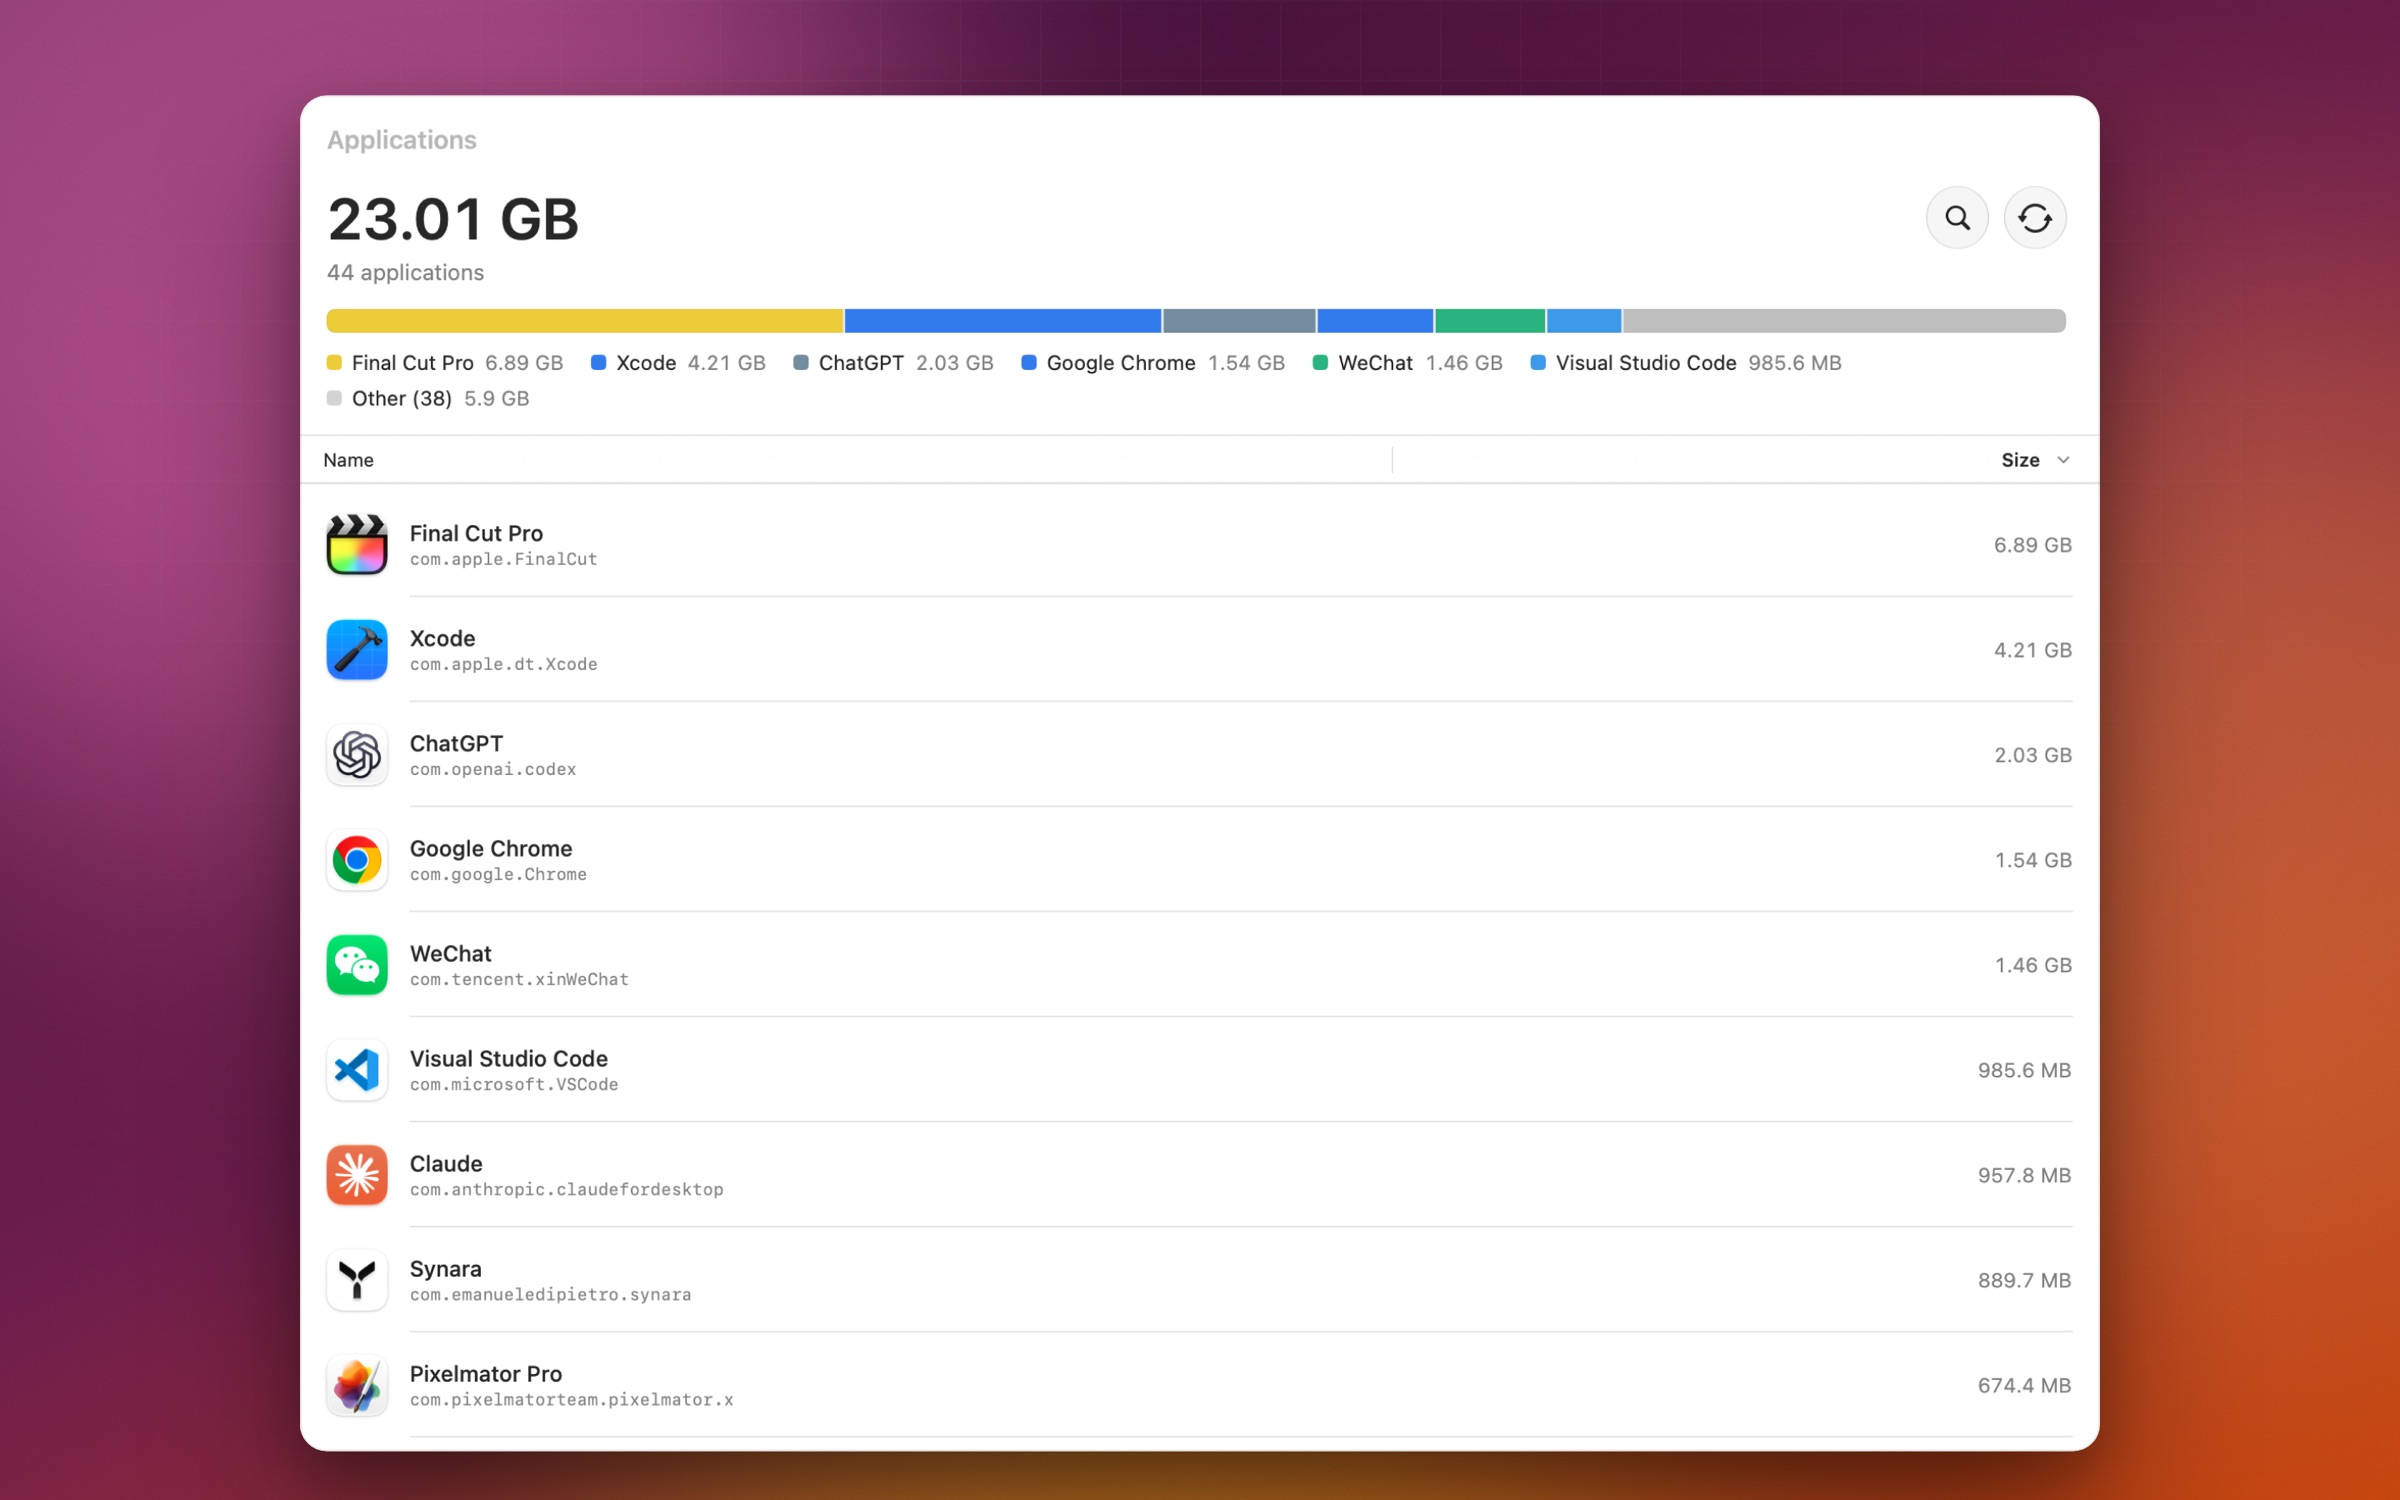
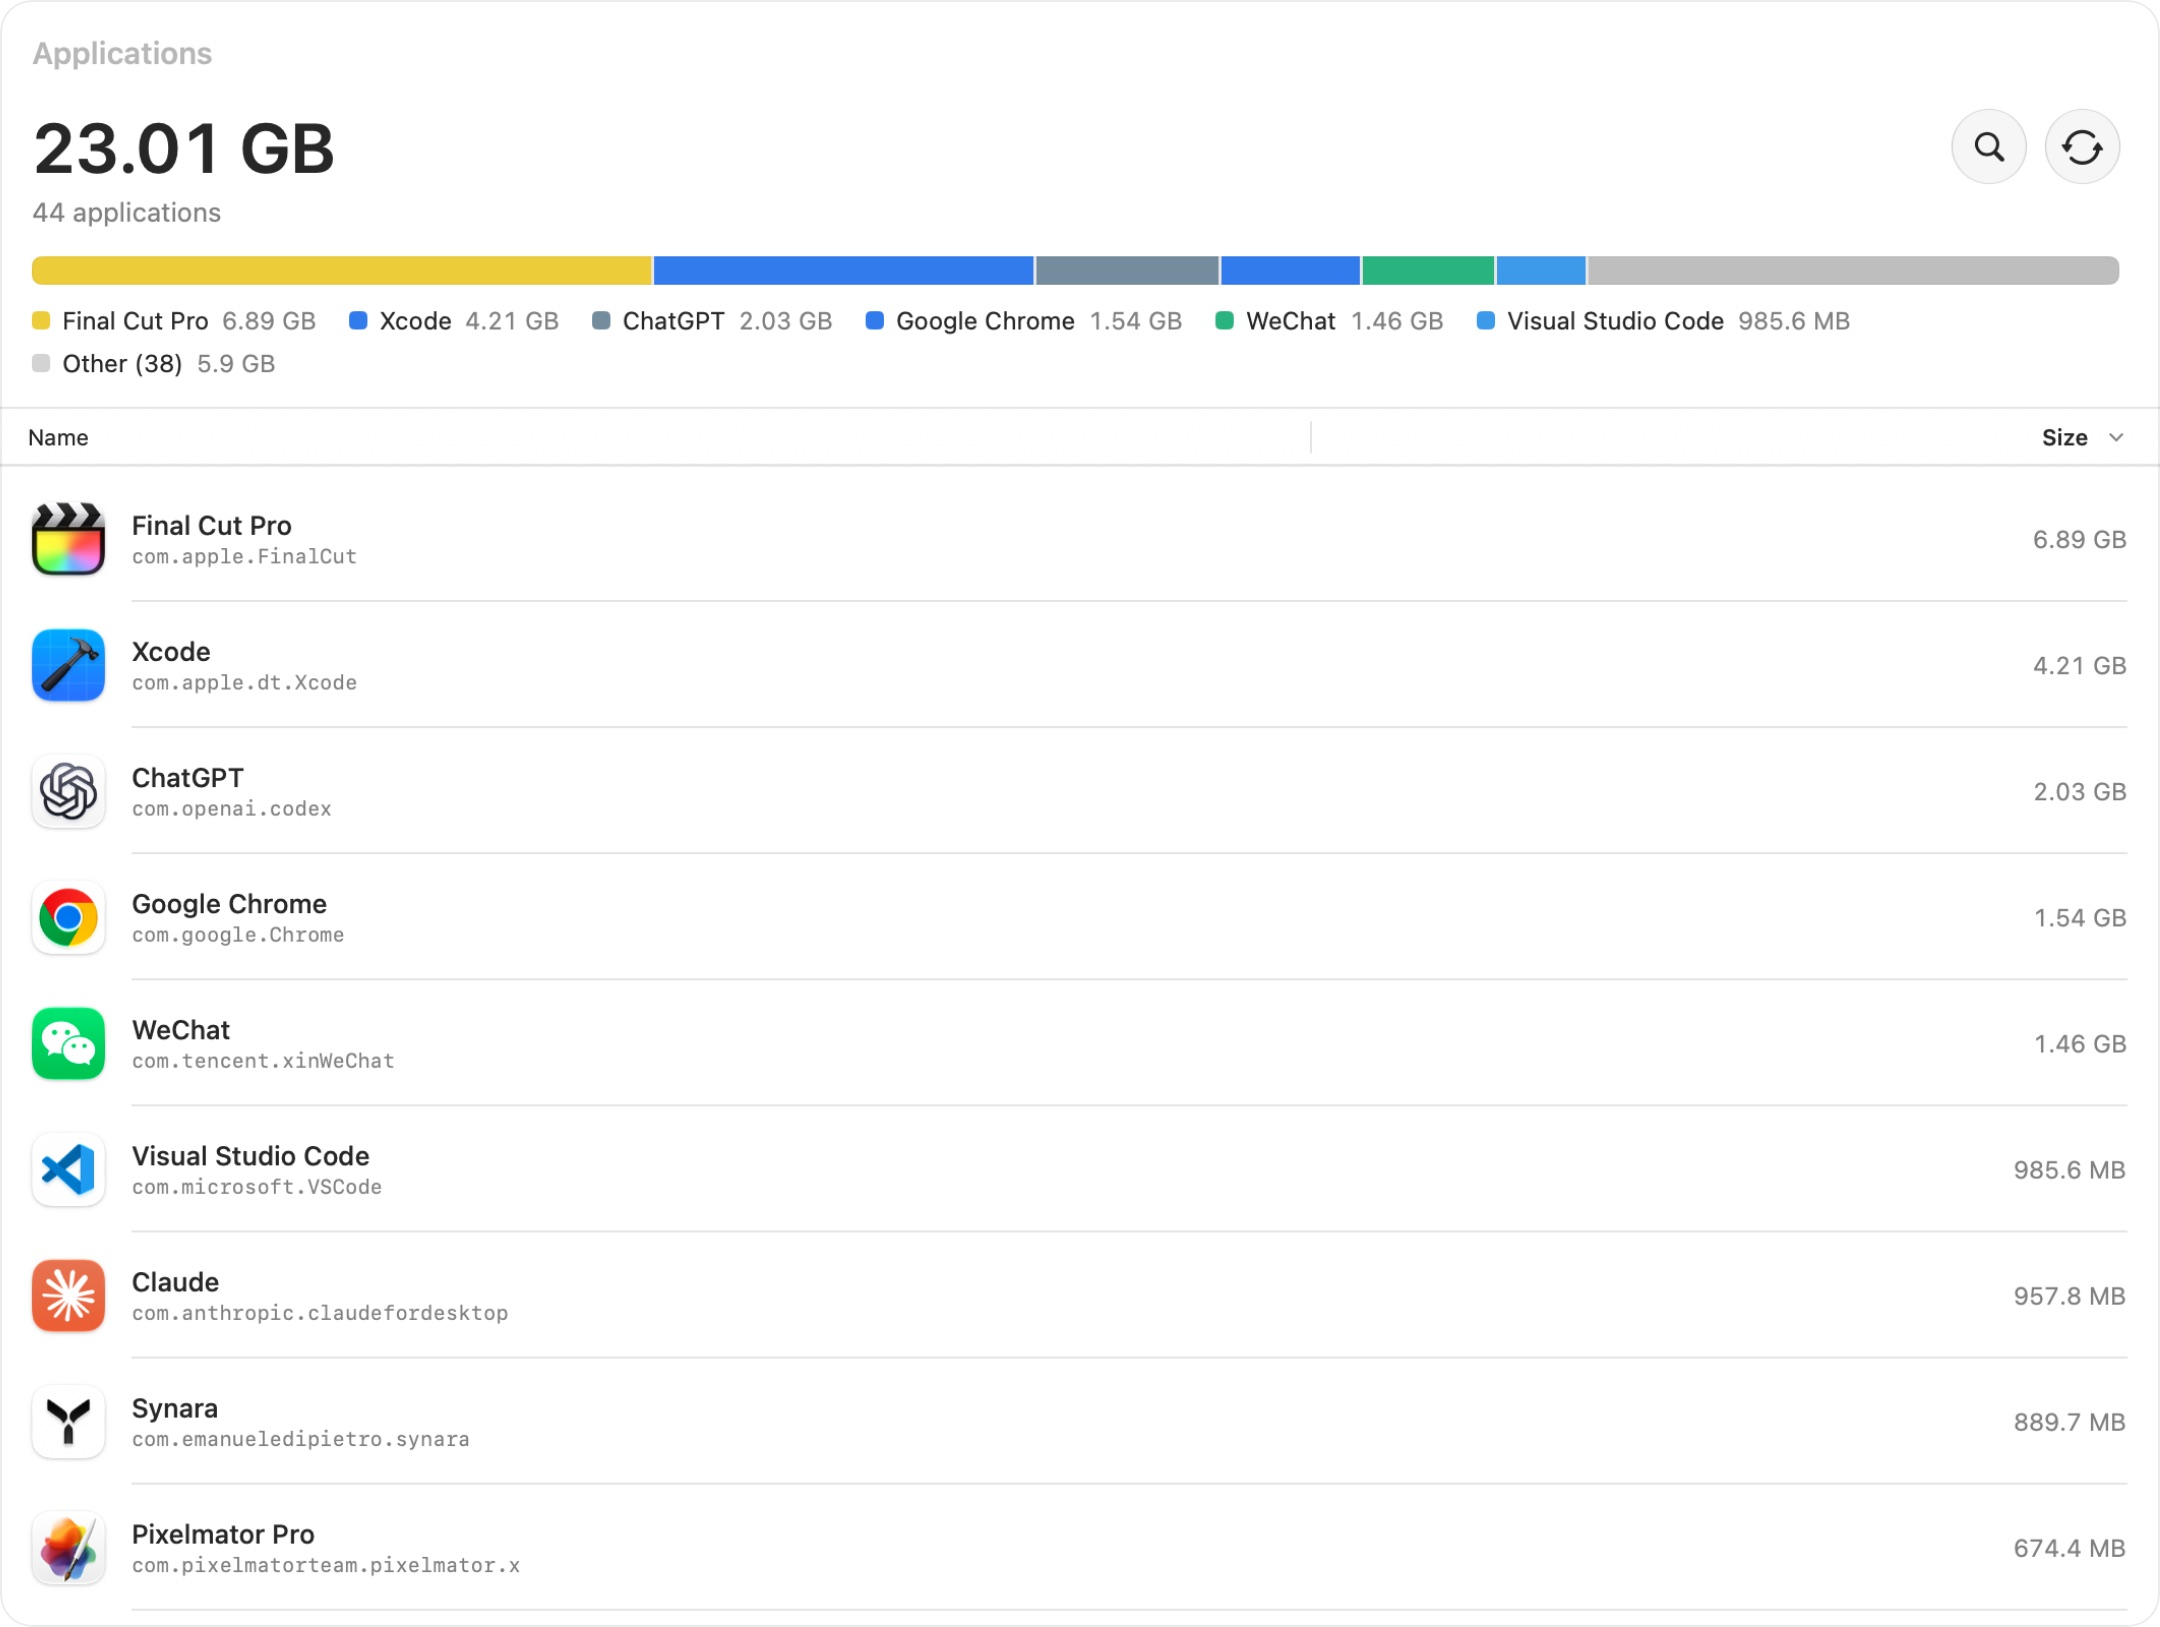
docs(web): show screenshots on the site's own background

diff --git a/web/index.html b/web/index.html
@@ -95,7 +95,7 @@
 
   <div class="wrap hero__shot">
     <div class="window">
-      <img src="/assets/shots/01-overview.jpg" alt="EasySweep&rsquo;s Overview: 732.92 GB free on Macintosh HD, a bar split into Cleanable, Applications, User Data and macOS, and three levels — Safe 12.5 GB, Balanced 22.13 GB, Deep 74.47 GB — above the sections each one takes from." width="2400" height="1500">
+      <img src="/assets/shots/01-overview.jpg" alt="EasySweep&rsquo;s Overview: 732.92 GB free on Macintosh HD, a bar split into Cleanable, Applications, User Data and macOS, and three levels — Safe 12.5 GB, Balanced 22.13 GB, Deep 74.47 GB — above the sections each one takes from." width="2200" height="1237">
     </div>
   </div>
 </header>
@@ -153,7 +153,7 @@
 
     <figure class="shot reveal">
       <div class="window">
-        <img src="/assets/shots/03-caches.jpg" alt="The Caches section as a dot-matrix bar and a list of apps: Safari 1.69 GB, Google Chrome 1.39 GB, Codex, Maps and WeChat, with several ticked for cleaning." width="2400" height="1500" loading="lazy">
+        <img src="/assets/shots/03-caches.jpg" alt="The Caches section as a dot-matrix bar and a list of apps: Safari 1.69 GB, Google Chrome 1.39 GB, Codex, Maps and WeChat, with several ticked for cleaning." width="2160" height="1627" loading="lazy">
       </div>
       <figcaption>Every location with its own size, grouped by the app it belongs to. Tick by hand, or pick a level.</figcaption>
     </figure>
@@ -201,7 +201,7 @@
 
     <figure class="shot reveal">
       <div class="window">
-        <img src="/assets/shots/04-apps.jpg" alt="The Applications page: 23.01 GB across 44 applications sorted by size, from Final Cut Pro and Xcode to ChatGPT and Google Chrome." width="2400" height="1500" loading="lazy">
+        <img src="/assets/shots/04-apps.jpg" alt="The Applications page: 23.01 GB across 44 applications sorted by size, from Final Cut Pro and Xcode to ChatGPT and Google Chrome." width="2160" height="1627" loading="lazy">
       </div>
       <figcaption>Open any app to review what it left behind before anything moves.</figcaption>
     </figure>
@@ -261,7 +261,7 @@
 
     <figure class="shot reveal">
       <div class="window">
-        <img src="/assets/shots/05-utilities.jpg" alt="Utilities showing Duplicate Files: duplicate images selected, 15.3 MB in all, each listed with how many copies exist and which copy is kept." width="2400" height="1500" loading="lazy">
+        <img src="/assets/shots/05-utilities.jpg" alt="Utilities showing Duplicate Files: duplicate images selected, 15.3 MB in all, each listed with how many copies exist and which copy is kept." width="2160" height="1676" loading="lazy">
       </div>
       <figcaption>Scanning is free. Whatever you tick, one copy of every duplicate stays.</figcaption>
     </figure>
@@ -309,7 +309,7 @@
 
     <figure class="shot reveal">
       <div class="window">
-        <img src="/assets/shots/06-auto-clean.jpg" alt="The Auto Clean page for Caches with three rows switched on: clean when a cache is over 5 GB, or when space is low, removing everything or only files older than a week." width="2400" height="1500" loading="lazy">
+        <img src="/assets/shots/06-auto-clean.jpg" alt="The Auto Clean page for Caches with three rows switched on: clean when a cache is over 5 GB, or when space is low, removing everything or only files older than a week." width="2160" height="1220" loading="lazy">
       </div>
       <figcaption>Each item cleans itself at its own size. Anything you leave off is never touched without you.</figcaption>
     </figure>
@@ -345,7 +345,7 @@
 
     <figure class="shot reveal">
       <div class="window">
-        <img src="/assets/shots/07-custom.jpg" alt="A custom category named Workspace: 37.9 GB of project folders, each listed with its size and the date it last changed." width="2400" height="1500" loading="lazy">
+        <img src="/assets/shots/07-custom.jpg" alt="A custom category named Workspace: 37.9 GB of project folders, each listed with its size and the date it last changed." width="2160" height="1676" loading="lazy">
       </div>
       <figcaption>Point EasySweep at the folders that matter to you, and it measures them like any built-in section.</figcaption>
     </figure>
@@ -381,7 +381,7 @@
 
     <figure class="shot reveal">
       <div class="window">
-        <img src="/assets/shots/02-customize.jpg" alt="EasySweep in dark mode with a Liquid Glass window over a blue and purple background, the Caches page drawn as tiles under a dot-matrix storage bar." width="2400" height="1500" loading="lazy">
+        <img src="/assets/shots/02-customize.jpg" alt="EasySweep in dark mode with a Liquid Glass window over a blue and purple background, the Caches page drawn as tiles under a dot-matrix storage bar." width="2200" height="1237" loading="lazy">
       </div>
       <figcaption>One choice in Settings, and every page follows it.</figcaption>
     </figure>
@@ -402,7 +402,7 @@
 
     <figure class="shot reveal">
       <div class="window">
-        <img src="/assets/shots/08-activity.jpg" alt="The Activity page: 59.63 GB reclaimed this month across 5 cleans, a chart of space reclaimed by location, and a list of cleans and app updates by date." width="2400" height="1500" loading="lazy">
+        <img src="/assets/shots/08-activity.jpg" alt="The Activity page: 59.63 GB reclaimed this month across 5 cleans, a chart of space reclaimed by location, and a list of cleans and app updates by date." width="2160" height="1676" loading="lazy">
       </div>
       <figcaption>By month, three months or year, with what each clean took.</figcaption>
     </figure>
@@ -450,7 +450,7 @@
 
     <figure class="shot reveal">
       <div class="window">
-        <img src="/assets/shots/09-monitor.jpg" alt="System Monitor with CPU at 26%, GPU at 16%, 32.84 GB of memory in use and disk activity at 1.5 MB/s, under a menu bar showing EasySweep&rsquo;s widgets: free space, CPU, GPU, memory, network and disk." width="2400" height="1500" loading="lazy">
+        <img src="/assets/shots/09-monitor.jpg" alt="System Monitor with CPU at 26%, GPU at 16%, 32.84 GB of memory in use and disk activity at 1.5 MB/s, under a menu bar showing EasySweep&rsquo;s widgets: free space, CPU, GPU, memory, network and disk." width="2160" height="1768" loading="lazy">
       </div>
       <figcaption>Live in the window — and in your menu bar, with the widgets you pick.</figcaption>
     </figure>
